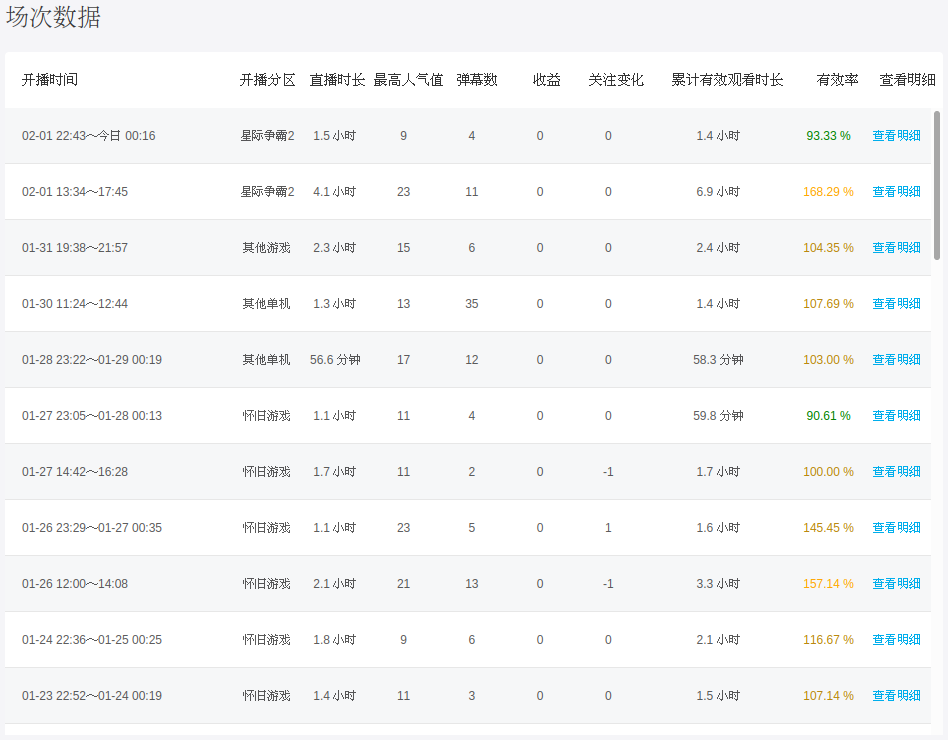
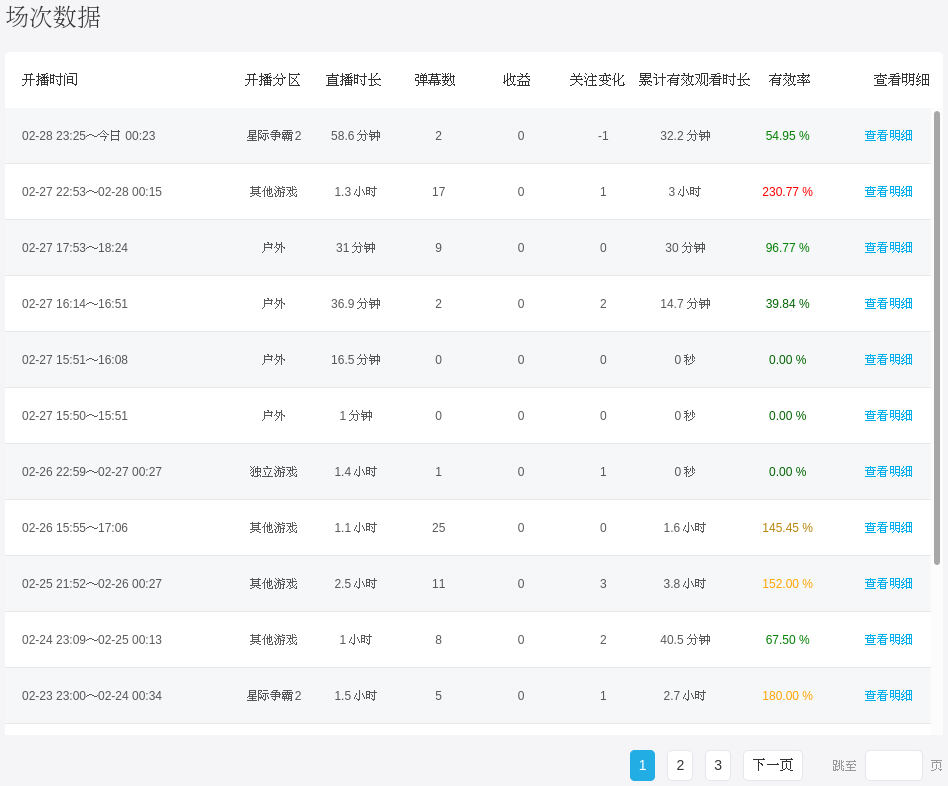
The bilibili live data removed the row '最高人气值'.

diff --git a/bilibili-live-effective-rate.js b/bilibili-live-effective-rate.js
@@ -10,7 +10,7 @@
 // @description:zh-TW   bilibili-live-effective-rate 有效觀看時長÷直播時長=直播有效率
 // @description:en      bilibili-live-effective-rate Effective-watching-time / live-duration = live-effective-rate
 // @description:ja      bilibili-live-effective-rate 有効観看時長÷直播時長=直播有効率
-// @version             0.3.0
+// @version             0.4.0
 // @author              catscarlet
 // @match               *://link.bilibili.com/p/center/index*
 // @require             https://code.jquery.com/jquery-latest.js
@@ -121,7 +121,7 @@ This project is licensed under **GNU AFFERO GENERAL PUBLIC LICENSE Version 3**
                 return;
             }
 
-            let effectiveHead = '<td class="effective-rate-head">有效率</td>';
+            let effectiveHead = '<td class="effective-rate-head" style="width: 10em">有效率</td>';
 
             let sessionDataTableThead = sessionDataTable.find('thead');
 
@@ -130,7 +130,7 @@ This project is licensed under **GNU AFFERO GENERAL PUBLIC LICENSE Version 3**
                 let tr = $(this);
                 let tdList = tr.find('td');
 
-                let sessionDataTableTheadAverageTimeDom = $(tdList[7]);
+                let sessionDataTableTheadAverageTimeDom = $(tdList[6]);
 
                 sessionDataTableTheadAverageTimeDom.after(effectiveHead);
 
@@ -145,7 +145,7 @@ This project is licensed under **GNU AFFERO GENERAL PUBLIC LICENSE Version 3**
                 let tdList = tr.find('td');
 
                 let durationDom = $(tdList[2]);
-                let averageTimeDom = $(tdList[7]);
+                let averageTimeDom = $(tdList[6]);
 
                 let durationRaw = durationDom.text();
                 let averageTimeRaw = averageTimeDom.text();
@@ -158,7 +158,7 @@ This project is licensed under **GNU AFFERO GENERAL PUBLIC LICENSE Version 3**
 
                 let color = colorRate(effectiveRate);
 
-                let effectiveRateTd = '<td data-v-045de783="" class="effective-rate" style="color: ' + color + '">' + effectiveRatePercent + '</td>';
+                let effectiveRateTd = '<td data-v-045de783="" class="effective-rate" style="width: 10em; color: ' + color + '">' + effectiveRatePercent + '</td>';
 
                 averageTimeDom.after(effectiveRateTd);
             });

diff --git a/CHANGELOG.md b/CHANGELOG.md
@@ -2,6 +2,10 @@
 
 (Frome new to old)
 
+## 0.4.0
+
+The bilibili live data removed the row '最高人气值'.
+
 ## 0.3.0
 
 The bilibili live data is changed from <https://link.bilibili.com/p/center/index#/data/overview> to <https://link.bilibili.com/p/center/index#/live-data/session-data>. A lot of things have changed. The v0.2.x branch works no more.
@@ -11,6 +15,8 @@ Notice the 0.3.0 version is still using **MutationObserver** which is not necess
 The detail tab is removed from bilibili so will no longer work there.
 
 Otherwise, there isn't much changed to talk about.
+
+------
 
 ## 0.2.1
 
